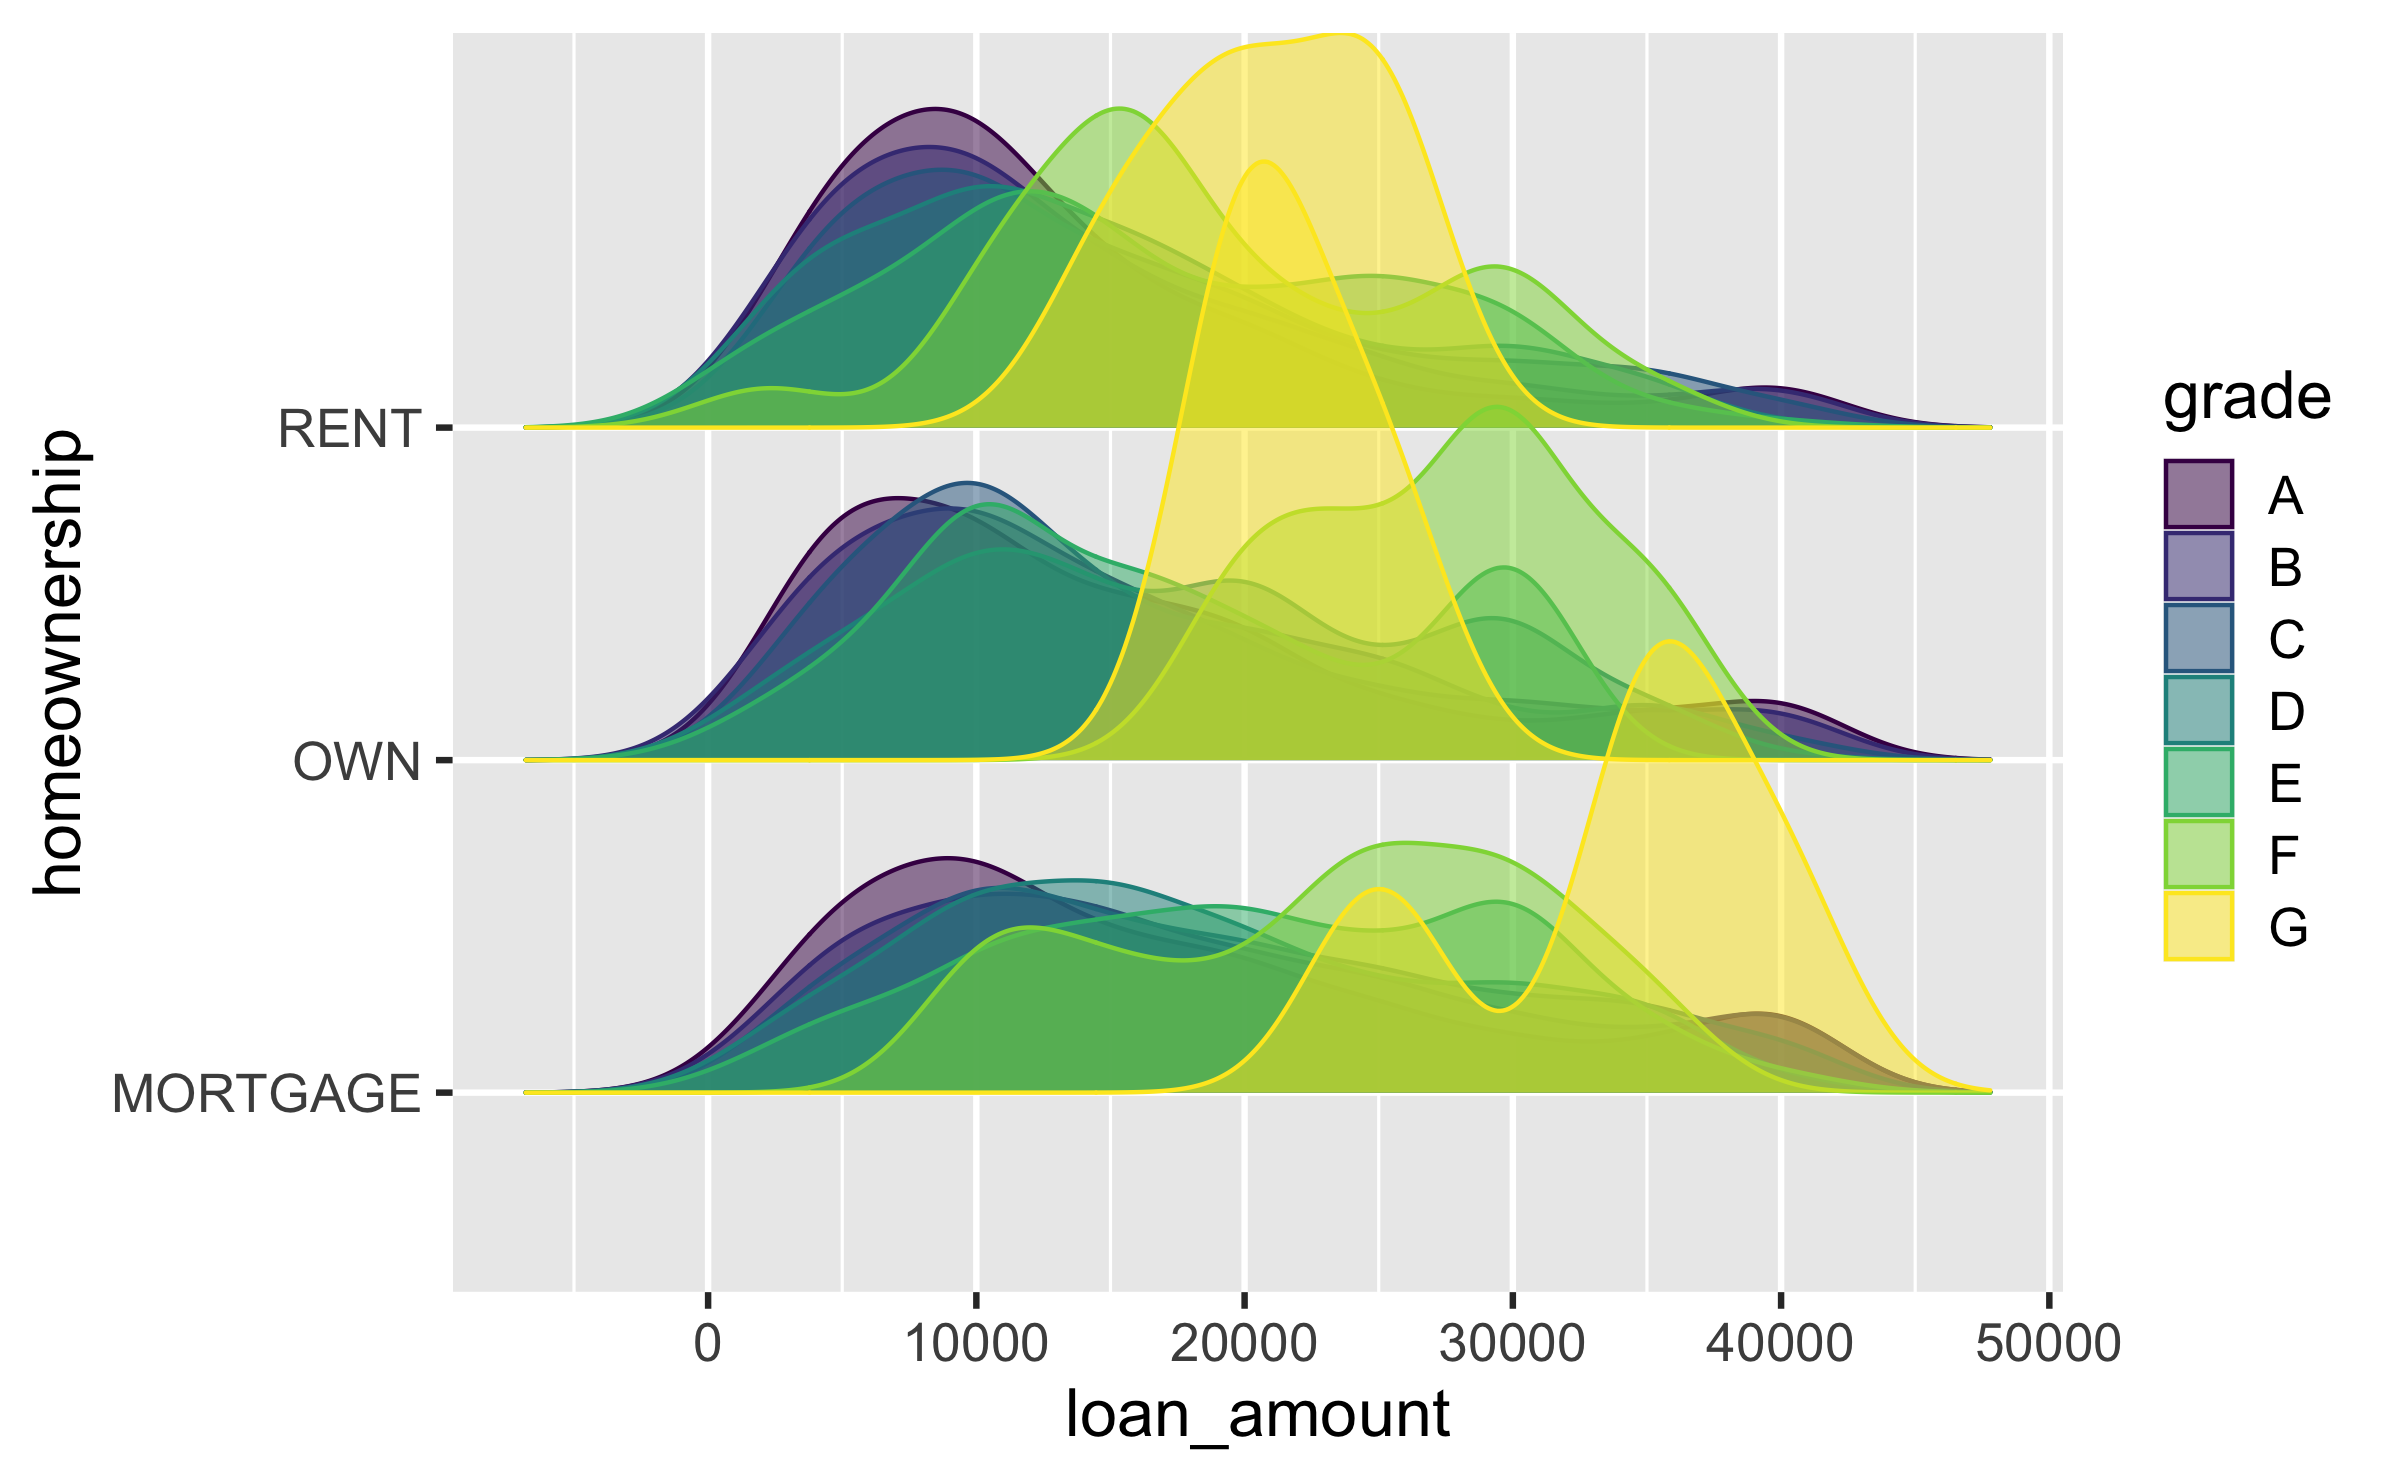
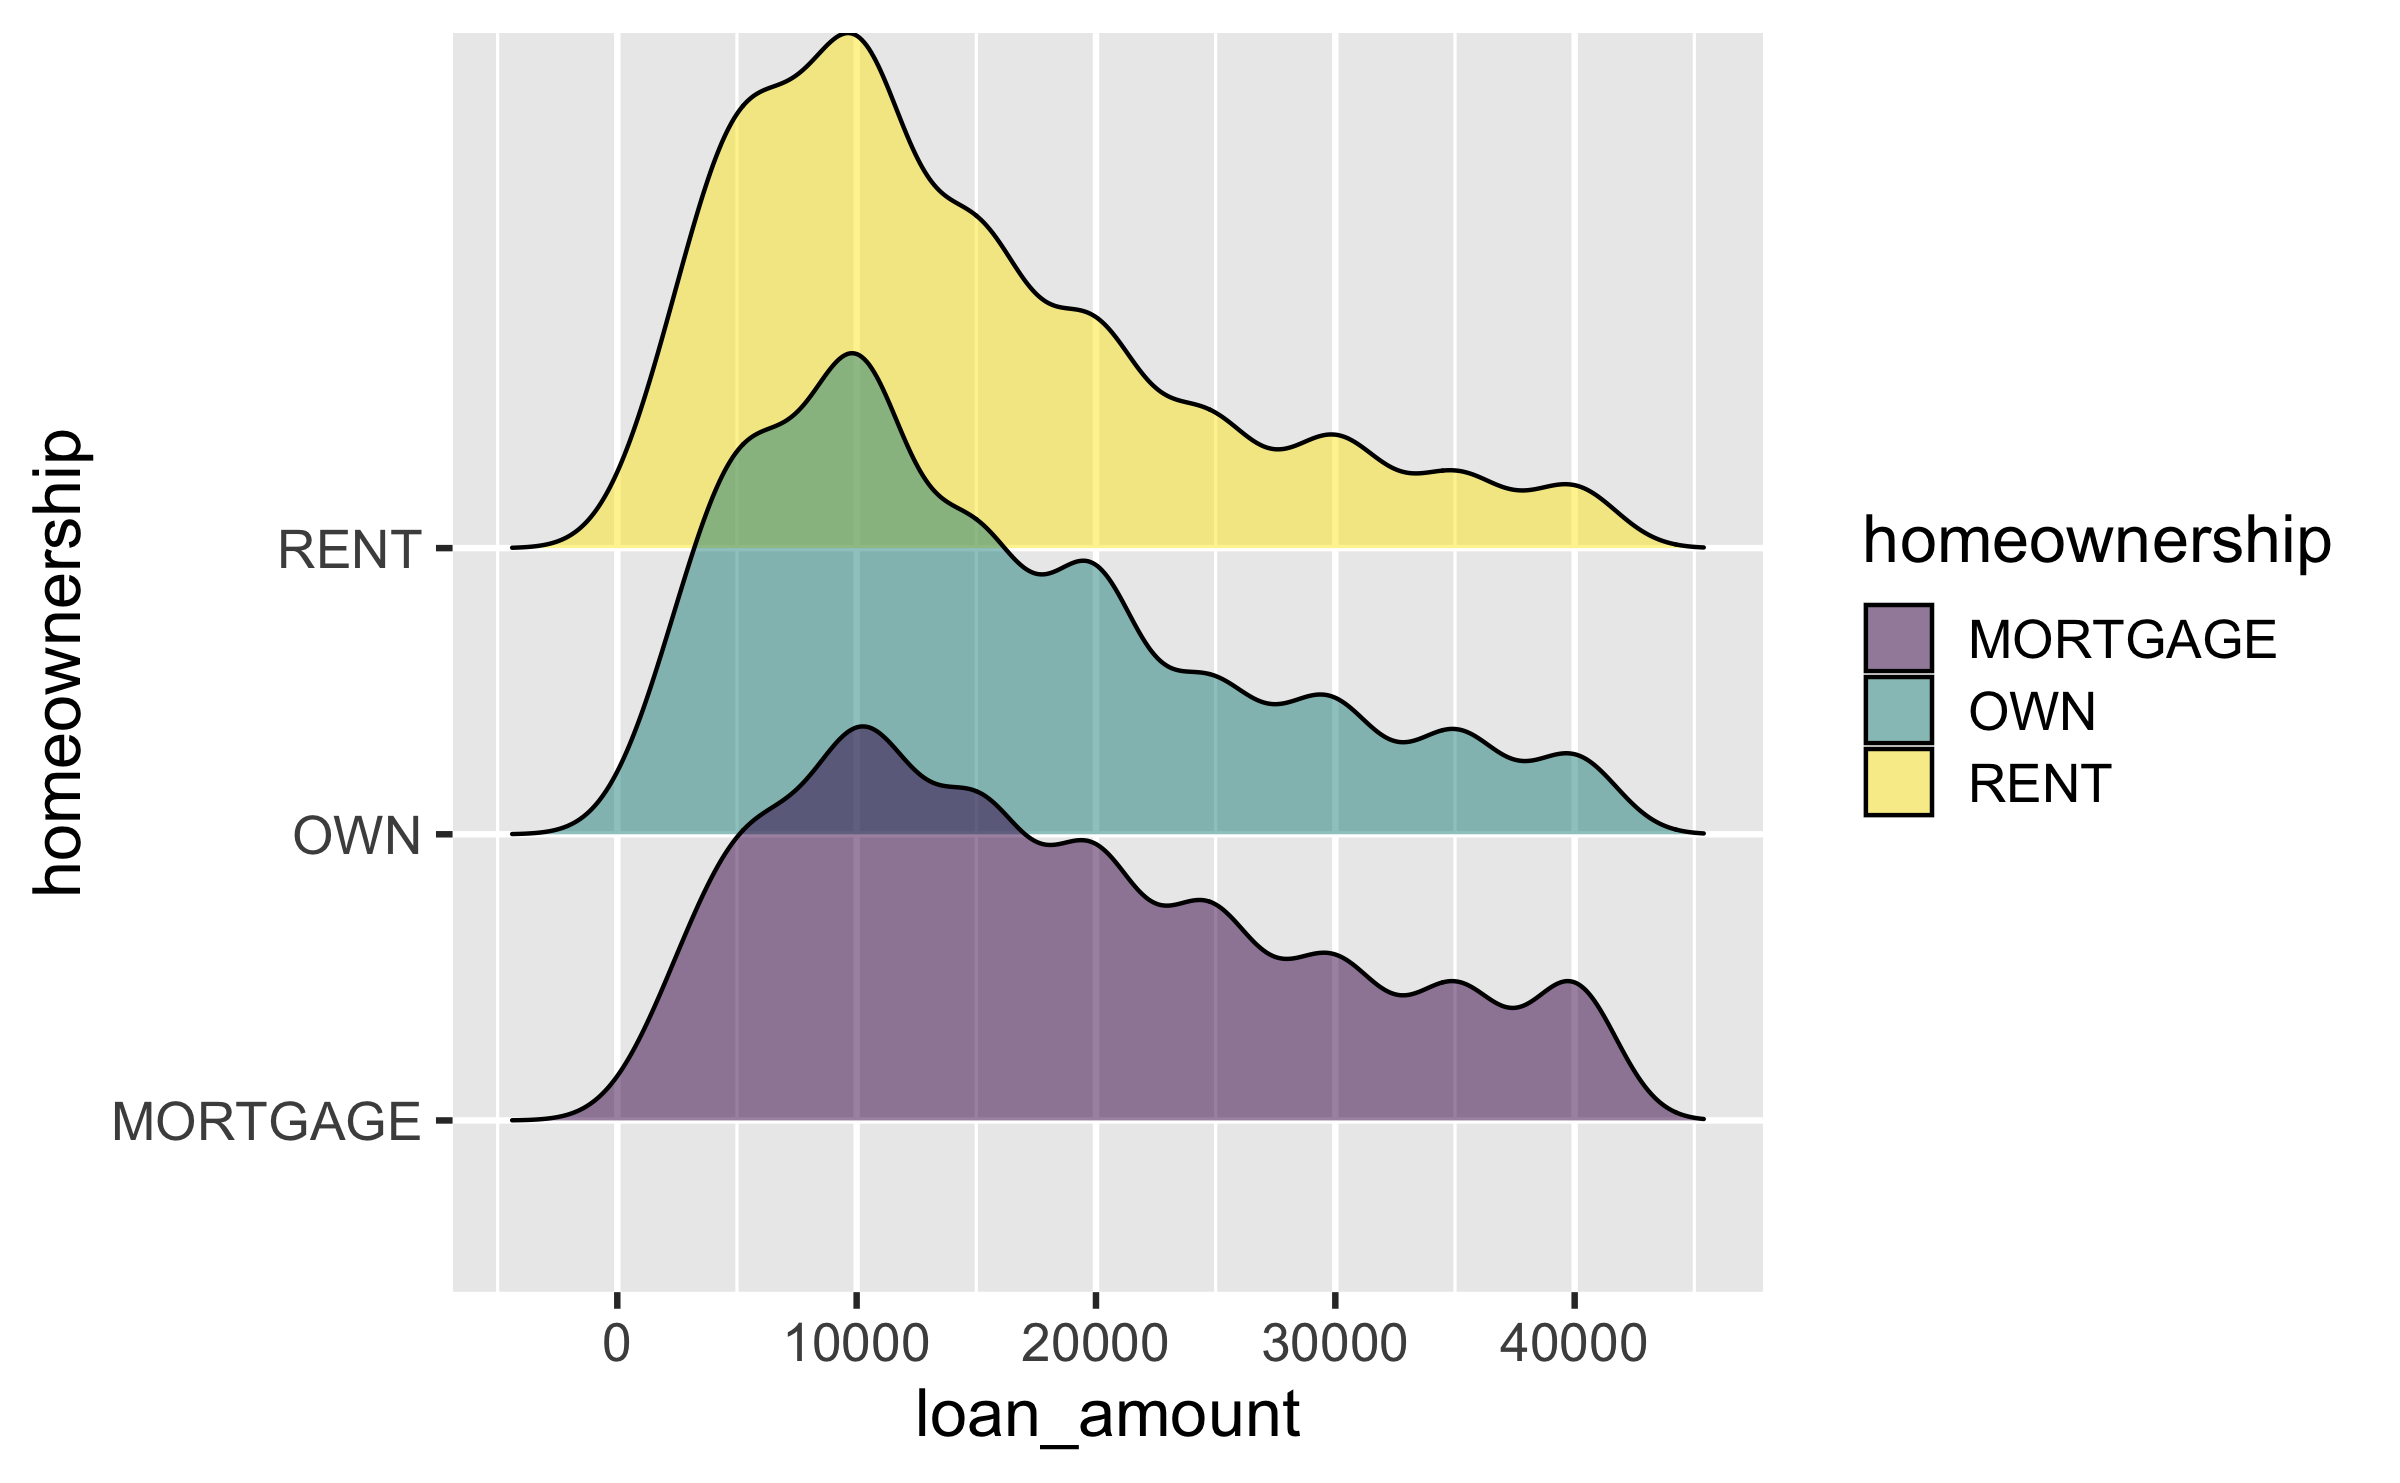
more changes lecture 12

diff --git a/statdatasci/lectures/lecture12/lecture12.html b/statdatasci/lectures/lecture12/lecture12.html
@@ -572,6 +572,7 @@ ggplot(loans, aes(x = homeownership, y = loan_amount)) +
 
 &lt;img src="lecture12_files/figure-html/unnamed-chunk-24-1.png" width="60%" style="display: block; margin: auto;" /&gt;
 
+
 ---
 
 ## Ridge plots
@@ -579,8 +580,10 @@ ggplot(loans, aes(x = homeownership, y = loan_amount)) +
 
 ```r
 library(ggridges)
-ggplot(loans, aes(x = loan_amount, y = homeownership, fill = grade, color = grade)) + 
-  geom_density_ridges(alpha = 0.5)
+ggplot(loans, aes(x = loan_amount, y = homeownership, 
+                  fill = homeownership)) + 
+  geom_density_ridges(alpha = 0.5) +
+  scale_fill_viridis_d()
 ```
 
 &lt;img src="lecture12_files/figure-html/unnamed-chunk-25-1.png" width="60%" style="display: block; margin: auto;" /&gt;
@@ -589,14 +592,32 @@ ggplot(loans, aes(x = loan_amount, y = homeownership, fill = grade, color = grad
 
 ## Ridge plots
 
+Ridge plots can also be used to investigate more complicated relationships, such as those between a categorical and numerical variable, conditional on another categorical variable 
+
+Here, we consider the relationship between loan grade and loan amount, conditional on each level of home ownership
+
 
 ```r
-library(ggridges)
 ggplot(loans, aes(x = loan_amount, y = homeownership, fill = grade, color = grade)) + 
   geom_density_ridges(alpha = 0.5)
 ```
 
 &lt;img src="lecture12_files/figure-html/unnamed-chunk-26-1.png" width="60%" style="display: block; margin: auto;" /&gt;
+
+
+---
+
+## Ridge plots
+
+Here, we consider the relationship between loan grade and loan amount, conditional on each level of home ownership
+
+
+```r
+ggplot(loans, aes(x = loan_amount, y = homeownership, fill = grade, color = grade)) + 
+  geom_density_ridges(alpha = 0.5)
+```
+
+&lt;img src="lecture12_files/figure-html/unnamed-chunk-27-1.png" width="60%" style="display: block; margin: auto;" /&gt;
 
 Interestingly, those who had mortgages tend to have a higher proportion of grade G loans that have higher loan amounts. 
 
